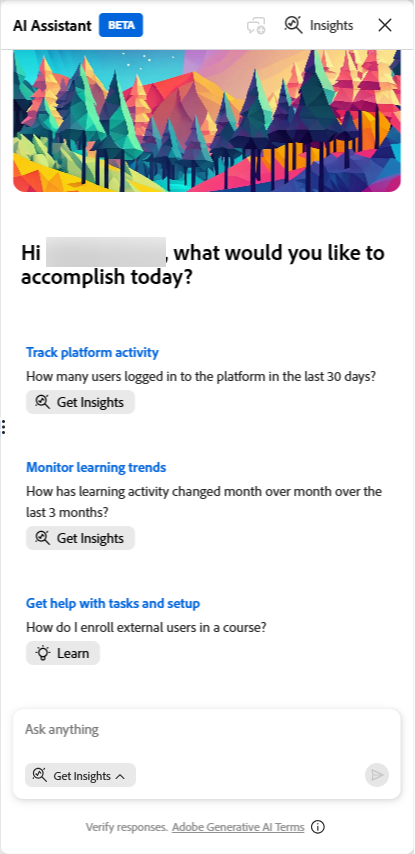
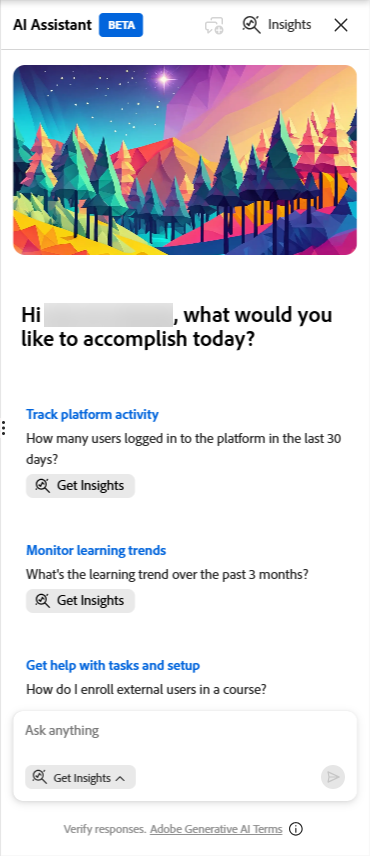
Deepu feedback
addressed Deepu's final feedback on IA

diff --git a/help/migrated/administrators/feature-summary/insights-agent.md b/help/migrated/administrators/feature-summary/insights-agent.md
@@ -6,7 +6,7 @@ title: Insights Agent (beta) in Adobe Learning Manager
 
 # What is Insights Agent
 
-Insights Agent is an AI-powered feature in Adobe Learning Manager that lets administrators query learner data using natural language. Instead of downloading reports and manipulating spreadsheets, you type a question, such as "How many courses were created in the last 3 months in the account? Give me a month-on-month report.", and Insights Agent retrieves and presents the data directly. You can view results as tables or download them as a CSV file.
+Insights Agent is an AI-powered feature in Adobe Learning Manager that lets administrators query learning data using natural language. Instead of downloading reports and manipulating spreadsheets, you type a question, such as "How many courses were created in the last 3 months in the account? Give me a month-on-month report.", and Insights Agent retrieves and presents the data directly. You can view results as text, bullets, or tables, or download them as a CSV file.
 
 Insights Agent is designed to reduce the steps between having a data question and getting an answer. Administrators who currently rely on Excel pivots, BI teams, or multiple combined reports can use Insights Agent to get answers faster.
 
@@ -15,10 +15,10 @@ Insights Agent is designed to reduce the steps between having a data question an
 You can use Insights Agent to:
 
 - Check completion and compliance metrics by region, department, or user group
-- Analyze enrollment trends across learning programs
-- View progress data for a specific course or learning path
-- Retrieve results in a table or as a downloadable CSV file
-- Get a plain-language explanation of how your results were calculated
+- Analyze enrollment trends across courses or Learning Paths
+- View progress data for a specific course or Learning Path
+
+Every query returns a formatted table or downloadable CSV file, along with a plain-language explanation of how the results were calculated.
 
 ## What data Insights Agent does not support
 
@@ -30,21 +30,6 @@ The following data types are outside the scope of this release:
 
 Queries that reference these data types will not return results. For example, "How many gamification points were awarded last quarter?" or "Which learners have earned a compliance badge?" will return an error or incomplete data.
 
-## How Insights Agent differs from Report Builder
-
-Both features use the same underlying learning data, but they work differently. Insights Agent is conversational. You describe what you want, and the agent retrieves it. Report Builder is structured. You select datasets, columns, and filters to build reusable reports.
-
-| **Use case** | **Recommendation** |
-|---|---|
-| Ask a quick data question | Insights Agent |
-| Explore data without knowing the schema | Insights Agent |
-| Build a structured, repeatable report | Report Builder |
-| Combine multiple datasets with custom joins | Report Builder |
-| Schedule report subscriptions | Report Builder |
-| Combine datasets with custom joins or advanced data modeling | Report Builder |
-
-**IMPORTANT**: Integration between Insights Agent and Report Builder is planned for a future release and is not available in the current beta.
-
 ## How Insights Agent works
 
 When you enter a question, Insights Agent processes it in four stages:
@@ -53,7 +38,7 @@ When you enter a question, Insights Agent processes it in four stages:
 
 2. **Approach**: The agent describes the steps it took to find your answer. This section helps you verify that the data was retrieved the way you intended, especially for complex queries.
 
-3. **Results**: The agent presents your data as a table. If your results contain 50 or fewer rows, a plain-language summary may be included.
+3. **Results**: The agent presents your data as text, bullets, or a table depending on the nature of the results. A plain-language summary is included with the results. When results contain 50 or fewer rows, the summary includes analytical insights about the data. When results contain more than 50 rows, the summary provides column-level statistics.
 
 4. **Download**: You can download the results as a CSV file. Large reports may take additional time; the agent notifies you when the file is ready.
 
@@ -61,34 +46,32 @@ The **Approach** section is particularly useful for complex queries. It shows th
 
 ## Ask questions using Insights Agent
 
-Use Insights Agent in Adobe Learning Manager to query learner data with plain-language questions and get results as text, tables, or downloadable CSV files.
+Use Insights Agent in Adobe Learning Manager to query learning data with plain-language questions and get results as text, tables, or downloadable CSV files.
 
 Insights Agent is available to admins from the AI assistant panel in Learning Manager. The panel is resizable. You can expand it to make results easier to read. By default, the **Get Insights** mode is selected when you open the panel. A separate **Learn** mode is also available for instructional questions about how to use the product. **Learn** mode answers instructional questions about how to use Learning Manager. For example, "How do I create a learning path?" It does not query learner data.
 
 ### Ask a question
 
-When the **Get Insights** mode is selected by default, you can immediately start querying learner data without needing to adjust the mode each time you access the assistant. However, if you ever switch to the **Learn** mode for instructional questions, make sure to re-select **Get Insights** before submitting a query.
+When the **Get Insights** mode is selected by default, you can immediately start querying learning data without needing to adjust the mode each time you access the assistant. However, if you ever switch to the **Learn** mode for instructional questions, make sure to re-select **Get Insights** before submitting a query.
 
-1. Select the AI assistant icon in Learning Manager to open the assistant panel.
+1. Select the AI assistant icon in Learning Manager to open the assistant panel. The **Get Insights** option is already selected by default.
+    ![](assets/ask-question.png)
 
-2. Select **Get Insights** in the mode selector, if not already selected by default.
-![](assets/ask-question.png)
+2. Type your question in the text field. Use plain language. For example: **How many courses were created in the last 3 months?**
 
-3. Type your question in the text field. Use plain language. For example: **How many courses were created in the last 3 months?**
-
-4. Select **Send** or press **Enter** to submit your question.
+3. Select **Send** or press **Enter** to submit your question.
 
 ### Review the response
 
 After you submit your question, Insights Agent processes your request and returns a response with up to four parts:
 
-1. **Disambiguation (if needed):** If your question contains an ambiguous term, such as \"learning activity\" or \"performance\", or "Give me performance data from last 3 months", the assistant displays a list of options and asks you to select one before it proceeds. Select the option that best matches what you\'re looking for. After the initial question, you cannot type additional instructions. Selecting from the provided options is the only interaction available until you start a new query using the query interface. You can only respond to disambiguation by selecting from the provided options; free-text follow-up is not available in this release.
+1. **Disambiguation (if needed):** If your question contains an ambiguous term, such as "learning activity" or "performance", or "Give me performance data from last 3 months", the assistant displays a list of options and asks you to select one before it proceeds. Select the option that best matches what you're looking for. After the initial question, you cannot type additional instructions. Selecting from the provided options is the only interaction available until you start a new query using the query interface. You can only respond to disambiguation by selecting from the provided options; free-text follow-up is not available in this release.
 
 ![](assets/disambiguation.png)
-2. **Approach:** The **Approach** section describes the steps the agent took to retrieve your data. It appears as a scrollable panel below the question. Select the expand icon to view the full approach. Reviewing this section helps you confirm that the logic matches your intent, especially for complex queries. For example, if you ask for \"all learners enrolled in the last year,\" the agent may return each learner\'s most recent enrollment rather than every enrollment record. The **Approach** section **may** or **will explain** that decision. If the logic doesn\'t match your intent, start a new query with more specific terms.
+2. **Approach:** The **Approach** section describes the steps the agent took to retrieve your data. It appears as a scrollable panel below the question. Select the expand icon to view the full approach. Reviewing this section helps you confirm that the logic matches your intent, especially for complex queries. For example, if you ask for "all learners enrolled in the last year," the agent may return each learner's most recent enrollment rather than every enrollment record. The **Approach** section explains the decisions the agent made when retrieving your data. If the logic doesn't match your intent, start a new query with more specific terms.
 
 ![](assets/approach.png)
-3. **Results:** The Insights Agent generates results as text or a table. For data points that are best interpreted in a tabular format, the Insights Agent returns a table. The Insights Agent does not generate charts or graphs. To visualize the data, download the CSV and open it in your preferred tool. If your results contain 50 or fewer rows, a plain-language summary may be included above the table. For example, \"Which courses do not have less than 5 enrolments that were created in the last 1 year, and who are the authors?\"
+3. **Results:** The Insights Agent generates results as text or a table. For data points that are best interpreted in a tabular format, the Insights Agent returns a table. The Insights Agent does not generate charts or graphs. To visualize the data, download the CSV and open it in your preferred tool. A plain-language summary is included with the results. When results contain 50 or fewer rows, the summary includes analytical insights about the data. When results contain more than 50 rows, the summary provides column-level statistics. For example, "Which courses do not have less than 5 enrolments that were created in the last 1 year, and who are the authors?"
 
 ![](assets/results.png)
 
@@ -103,7 +86,15 @@ And the response contains the following summary:
 
 *A download link for the full report will be provided once the export is ready.*
 
-**Note:** Insights Agent is probabilistic. If you run the same query twice, the response phrasing or result ordering may differ slightly. The underlying data retrieved is the same, but the output can vary across runs.
+>[!NOTE]
+>
+>The format of the summary varies based on the nature of the data. The following is one example of a summary response. Your actual summary will differ depending on the query.
+
+
+>[!NOTE]
+>
+>Insights Agent is probabilistic. If you run the same query twice, the response phrasing or result ordering may differ slightly.
+
 
 ### Download the report
 
@@ -111,13 +102,13 @@ Select **Download report** to export your results as a CSV file. For large resul
 
 ## Start a new query
 
-Each Insights Agent session handles one question at a time. After you review your results, select **New question** to ask a different question. You cannot type a follow-up question in the same session or ask the agent to refine or expand on the results it returned.
+Each Insights Agent session handles one question at a time. After you review your results, select **New question** to ask a different question. You can also select **New chat** at any point, including before you have received a response, if you want to abandon the current query and start fresh. You cannot type a follow-up question in the same session or ask the agent to refine or expand on the results it returned.
 
 ![](assets/new-question.png)
 
 >[!TIP]
 >
->If you want to explore related data, start a new query that incorporates what you learned from the first. For example, after seeing enrollment totals by region, start a new query to check completion rates for the same region.
+>If you want to explore related data, start a new query that incorporates what you learned from the first. For example, after seeing enrollment totals by region, start a new query to deep dive into under performing regions.
 
 ## Provide feedback
 
@@ -129,27 +120,40 @@ After each response, select the thumbs-up or thumbs-down icon to rate the result
 
 - Start with a specific question rather than a broad one. "What is the completion rate for the Safety Training course in the North America user group?" returns more useful results than \"Show me completion data."
 - Use exact Adobe Learning Manager terms when naming content and learner groups. The query writing guide lists the correct terms to use.
-- If the agent asks a clarifying question, treat it as a signal to refine your original query. The more specific your question, the fewer clarifications are needed.
-- Review the **Approach** section before acting on the results, especially for compliance-related queries where accuracy is critical.
+- If the agent asks a clarifying question, treat it as a signal to refine your original query next time. The more specific your question, the fewer clarifications are needed.
+- Review the **Approach** section before acting on results to confirm the agent's logic matches your intent.
 - **Specify whether to include or exclude waitlisted learners**. By default, enrollment count queries include learners who are on a waitlist alongside active, confirmed enrollments. If you need only active participants, explicitly exclude waitlisted learners in your query. For example: "How many learners are directly enrolled in the Safety Training course, excluding waitlisted learners?" The agent will disclose in the Approach section that the exclusion was applied. Without this instruction, enrollment totals may include a significant proportion of waitlisted learners who have not yet started the content.
 - **Direct and indirect enrollment counts**: When you query enrollment or completion data for a course or learning path, Insights Agent distinguishes between direct enrollments (learners enrolled specifically in that course or learning path) and indirect enrollments (learners who accessed the same content as part of a Learning Path or certification). If you ask specifically for direct or indirect enrollments, the agent returns the correct count for each type. If your query does not specify direct or indirect, the agent may return a combined count. To get separated counts, include the distinction explicitly in your query. For example: "How many learners are directly enrolled versus indirectly enrolled in the Safety Training course?"
 
 
+## How Insights Agent differs from Report Builder
+
+Both features use the same underlying learning data, but they work differently. Insights Agent is conversational. You describe what you want, and the agent retrieves it. Report Builder is structured. You select datasets, columns, and filters to build reusable reports.
+
+| **Use case** | **Recommendation** |
+|---|---|
+| Ask a quick data question | Insights Agent |
+| Explore data without knowing the schema | Insights Agent |
+| Build a structured, repeatable report | Report Builder |
+| Combine multiple datasets with custom joins | Report Builder |
+| Schedule report subscriptions | Report Builder |
+| Combine datasets with custom joins or advanced data modeling | Report Builder |
+
 ## Write effective queries for the Insights Agent
 
-The quality of your query directly affects the quality of the results Insights Agent returns. A well-formed query includes three ingredients: context (what content and which learners), scope (status, time range, and user state), and columns (the exact fields you want in the output). Learn how to use the correct terminology, query structure, and example queries as starting points.
+The quality of your query directly affects the quality of the results Insights Agent returns. A well-formed query includes three ingredients: context, for example, what content and which learners, scope, for example, status, time range, and user state, and columns, for example, the exact fields you want in the output. Learn how to use the correct terminology, query structure, and example queries as starting points.
 
 ### The three-part query formula
 
 Every effective Insights Agent query contains these three components:
 
-| **Component** | **What it means** | **Example** |
+| **Component** | **What could mean** | **Example** |
 |---|---|---|
 | **Context** | The content and learners you're asking about | "...the New Hire Onboarding learning path, for Sales Associate learners in Location 101..." |
 | **Scope** | Enrollment status, time range, and user state | "...who are enrolled but not yet completed, in the last 90 days..." |
 | **Columns** | Every field you want in the output | "...show name, email, location, and enrollment date" |
 
-Missing any one of these components leads to ambiguous results or a clarifying question from the agent.
+Missing any one of these components may lead to ambiguous results or a clarifying question from the agent.
 
 ### Use the correct ALM terms
 
@@ -172,7 +176,7 @@ Insights Agent is case-insensitive, but exact term matching improves accuracy.
 
 ### Anchor your content
 
-Every query needs a content anchor so the agent knows which learning items to look at. You can anchor by any of the following:
+Providing a content anchor helps the agent know which learning items to look at. You can anchor by any of the following:
 
 | **Anchor type** | **Example** |
 |---|---|
@@ -186,7 +190,7 @@ Every query needs a content anchor so the agent knows which learning items to lo
 
 ### Anchor your learners
 
-Specify which learners to include using one of these methods:
+If a query is related to a learner, use one of these methods:
 
 - **Active field value** — "learners where active field Job Title = Sales Associate" or "learners where active field Location = 101"
 - **User group** — "learners in the Sales Associates user group"
@@ -194,7 +198,7 @@ Specify which learners to include using one of these methods:
 
 ### Define your scope
 
-Without a clear scope, results may include the wrong status, time period, or user state.
+Omitting scope details may lead to broader results than intended.
 
 | **Scope type** | **Options** |
 |---|---|
@@ -210,7 +214,7 @@ If you don't specify columns, Insights Agent chooses them for you. Name every fi
 |---|---|
 | "Show location numbers" | "For each location: total learners, enrolled count, not-enrolled count" |
 | "Show completion rates" | "For each learning path: name, total enrolled, total completed, completion %" |
-| "Show me who failed" | "Show learner name, email, course name, and completion status for learners who have not completed" |
+| "Show me who failed" | "Show learner name, email, course name, and completion status for learners who have failed" |
 
 ### Example queries
 
@@ -219,7 +223,7 @@ Use these as starting points. Adapt them by replacing the content names, user gr
 **Completion and compliance**
 
 - "What is the completion rate for the Safety Training course in the North America user group?"
-- "Show completion rate by user group for all compliance-labeled courses. Include user group name, total enrolled, total completed, and completion %."
+- "Show completion rate by user group for all compliance courses. Include user group name, total enrolled, total completed, and completion %."
 - "What is the compliance rate for all learners where active field Job Title = VP?"
 
 **Enrollment analysis**
@@ -235,7 +239,7 @@ Use these as starting points. Adapt them by replacing the content names, user gr
 
 **Organizational views**
 
-- "Show completion rate for all compliance-labeled certifications, grouped by department. Include department name, total enrolled, and completion %."
+- "Show completion rate for all compliance type labeled certifications, grouped by department. Include department name, total enrolled, and completion %."
 - "What is the enrollment distribution by region for the last 30 days?"
 
 ### Common mistakes to avoid
@@ -251,15 +255,6 @@ Use these as starting points. Adapt them by replacing the content names, user gr
 
 ## Limitations in the release
 
-**Newly added data may take up to 30 minutes to appear in results**
-
-After content is created, learners are enrolled, or completion records are updated, it may take up to 30 minutes for that data to be available in query results. If your results appear incomplete or do not reflect recent activity, wait 30 minutes and try your query again.
-
 **Queries submitted in non-Latin scripts are not supported**
 
 Insights Agent supports queries written in English and Latin-alphabet languages such as French and Spanish. Queries submitted using non-Latin scripts, including Japanese, Chinese, Arabic, Korean, Hindi, and Russian, cannot be processed, and the agent will display a message indicating the query could not be completed. If you submit a query in one of these languages, start a new query and rephrase it in English. Support for additional languages may be considered in future releases.
-
-**Results may include content and learners in all states**
-
-When you query data in Insights Agent, results may include records across all available states unless you specify otherwise. For example, a query for enrolled learners may include learners on a waitlist or learners whose accounts have been deleted. A query for courses or learning paths may include both published and retired content. To refine your results, include explicit conditions when you ask your question. For example, specify active users only, exclude waitlisted learners, or limit results to published content to ensure the output reflects only the records you intend to see.
-
